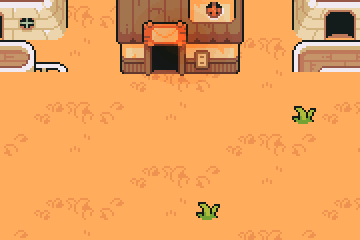
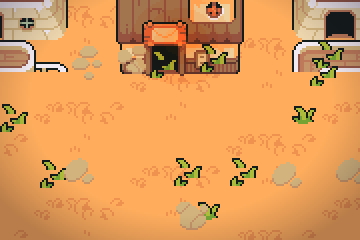
Battle grounds dressed like the event scenes
The battle backgrounds were a flat floor with one strip of scenery at the top and
looked empty next to the event pictures. tools/scenes/places.py now scatters the
zone's small details (sprouts, flowers, pebbles, grey dead flowers) between the
fighters' tiles, frames the sides with the zone's trees or icy/dark rocks cut off by
the edge, and darkens the corners a little. The tiles where creatures stand stay
clear. sw v83.

Claude-Session: https://claude.ai/code/session_01FLhyEHzTmDATdZEWZvLKDA

diff --git a/sw.js b/sw.js
@@ -1,5 +1,5 @@
 // Offline support: keep the game files cached, refresh them in the background.
-const CACHE = "evolvlings-v82";
+const CACHE = "evolvlings-v83";
 const CORE = ["./", "./index.html", "./pixel.js", "./sprites.js", "./scenes.js", "./art.js", "./art/manifest.json", "./lore.js", "./seasons.js", "./rpg/data-cards.js", "./rpg/data-mons.js", "./rpg/data-talents.js", "./rpg/data-zones.js", "./rpg/data-events.js", "./rpg/events-aurora.js", "./rpg/events-aurora.en.js", "./rpg/events-crater.js", "./rpg/events-crater.en.js", "./rpg/events-forest.js", "./rpg/events-forest.en.js", "./rpg/events-hollow.js", "./rpg/events-hollow.en.js", "./rpg/events-lake.js", "./rpg/events-lake.en.js", "./rpg/events-caves.js", "./rpg/events-caves.en.js", "./rpg/events-heights.js", "./rpg/events-heights.en.js", "./rpg/events-deep.js", "./rpg/events-deep.en.js", "./rpg/events-heart.js", "./rpg/events-heart.en.js", "./rpg/events-common.js", "./rpg/events-common.en.js", "./rpg/engine.js", "./rpg/text-es.js", "./rpg/text-en.js", "./rpg/ui-core.js", "./rpg/ui-style.js", "./rpg/ui-art.js", "./rpg/ui-expedition.js", "./rpg/ui-battle.js", "./rpg/ui-events.js", "./rpg/data-people.js", "./rpg/data-faces.js", "./rpg/data-lore-mons.js", "./rpg/data-lore-cards.js", "./rpg/ui-talk.js", "./rpg/ui-cards.js", "./rpg/ui-book.js", "./rpg/ui-talents.js", "./rpg/ui-duels.js", "./rpg/ui-hooks.js", "./rpg/registry.js", "./rpg/data-wild.js", "./daily.js", "./well.js", "./eggs.js", "./build.js", "./ach.js", "./weather.js", "./world.js", "./guide.js", "./desktop.js", "./manifest.webmanifest", "./icons/icon.svg", "./icons/icon-192.png", "./icons/icon-512.png", "./icons/apple-touch-icon.png"];
 
 self.addEventListener("install", (e) => {

diff --git a/tools/scenes/places.py b/tools/scenes/places.py
@@ -76,9 +76,70 @@ def backdrop(zone, size, path=None):
     return s
 
 
+# Battle grounds (2026-11-13): the flat floor of the first version looked empty next to the event scenes, so the ground
+# gets small details of the zone between the fighters' tiles, the sides get the zone's trees, rocks or walls (cut off by
+# the edge, like a clearing seen up close) and the corners darken a little. The fighters stand on 3 lanes (feet at y 49,
+# 76, 103 at this 180 x 120 size) at x 24 and 63 (yours) and 117 and 156 (theirs): no detail goes on those tiles.
+FEET = [(x, y) for x in (24, 63, 117, 156) for y in (49, 76, 103)]
+GROUND = {  # zone: (details from TilesetFloorDetail (col, row) or "peb" pebbles from TilesetNature, how many, a stone colour)
+    "aurora": ([(0, 2), (1, 2), (2, 2), (5, 3), (5, 2), "peb"], 26, False), "crater": (["peb", "peb", (1, 2)], 16, False),
+    "forest": ([(0, 2), (1, 2), (3, 2), (6, 2), (5, 3), "peb"], 30, False), "hollow": ([(0, 2), (1, 2), "x", "x", "peb"], 22, False),
+    "lake": ([(0, 2), (2, 2), "peb", "peb", (5, 2)], 22, False), "caves": (["peb"], 16, (120, 112, 104)),
+    "heights": (["peb"], 12, (176, 184, 200)), "deep": (["peb"], 10, (170, 196, 222)), "heart": ([(0, 2), (1, 2), "x", "peb"], 22, False)}
+SIDES = {  # zone: props for the left and right edges, from the bottom up: (sheet, x, y, w, h)
+    "aurora": [("TilesetNature", 256, 0, 32, 32), ("TilesetNature", 48, 288, 48, 48)],
+    "crater": [], "forest": [("TilesetNature", 256, 0, 32, 32), ("TilesetNature", 32, 0, 32, 32)],
+    "hollow": [("TilesetNature", 32, 0, 32, 32)], "lake": [("TilesetNature", 256, 0, 32, 32)], "caves": [("TilesetNature", 288, 144, 16, 16)],
+    "heights": [("TilesetNature", 288, 144, 16, 16)], "deep": [("TilesetNature", 288, 144, 16, 16)], "heart": [("TilesetNature", 256, 0, 32, 32)]}
+
+
+def dress(s, zone):
+    w, h = s.w, s.h
+    fd, nat = ts("TilesetFloorDetail"), ts("TilesetNature")
+    kinds, n, grey = GROUND[zone]
+    seed = sum(map(ord, zone)) * 37
+    def rnd(m):
+        nonlocal seed; seed = (seed * 9301 + 49297) % 233280; return seed % m
+    placed = 0
+    for _ in range(n * 6):
+        if placed >= n: break
+        x, y = 4 + rnd(w - 8), 34 + rnd(h - 38)
+        if any(abs(x - fx) < 20 and -6 < y - fy < 16 for fx, fy in FEET): continue
+        k = kinds[rnd(len(kinds))]
+        if k == "peb": im = cut("TilesetNature", 240 + rnd(4) * 16, 288, 16, 16)
+        elif k == "x": im = dim(tile(fd, 5, 3, trim=True), 0.75, grey=True)
+        else: im = tile(fd, k[0], k[1], trim=True)
+        if grey: im = tint(im, grey, 0.65)
+        s.put(im, x, y); placed += 1
+    props = SIDES[zone]
+    small = props and props[0][3] <= 16      # rocks: closer together, two abreast
+    for side in (0, 1) if props else ():
+        for i, y in enumerate(range(h + 6, 30, -12 if small else -26)):
+            sh, px, py, pw, ph = props[(i + side) % len(props)]
+            im = cut(sh, px, py, pw, ph)
+            if grey: im = tint(im, grey, 0.55)
+            x = (-4 + (i % 2) * 6) if side == 0 else (w + 4 - (i % 2) * 6)
+            if small: x = (4 + (i % 3) * 4) if side == 0 else (w - 4 - (i % 3) * 4)
+            s.put(im, x, y)
+            if small and i % 2: s.put(im, x + (-8 if side else 8), y - 4)
+    return s
+
+
+def vignette(g, a=0.3):
+    """Darkens the corners a little (more at the bottom), so the eye stays on the fighters."""
+    w, h = g.size
+    m = Image.new("L", (w, h)); px = m.load()
+    for y in range(h):
+        for x in range(w):
+            d = ((x - w / 2) / (w * 0.62)) ** 2 + ((y - h * 0.42) / (h * 0.7)) ** 2
+            px[x, y] = int(255 * a * min(1, max(0, (d - 0.45) / 0.55)))
+    return Image.composite(Image.new("RGBA", (w, h), (16, 12, 28, 255)), g, m)
+
+
 def battle(zone, night):
-    s = backdrop(zone, (180, 120))
+    s = dress(backdrop(zone, (180, 120)), zone)
     s.lit(NIGHT[zone] if night else DAY[zone])
+    s.g = vignette(s.g); s.d = ImageDraw.Draw(s.g)
     if zone == "hollow": s.fog(0.25 if night else 0.3, (196, 200, 214) if not night else (90, 90, 120))
     if zone == "heights" and not night: s.snow(30)
     if zone == "deep": s.snow(40)
